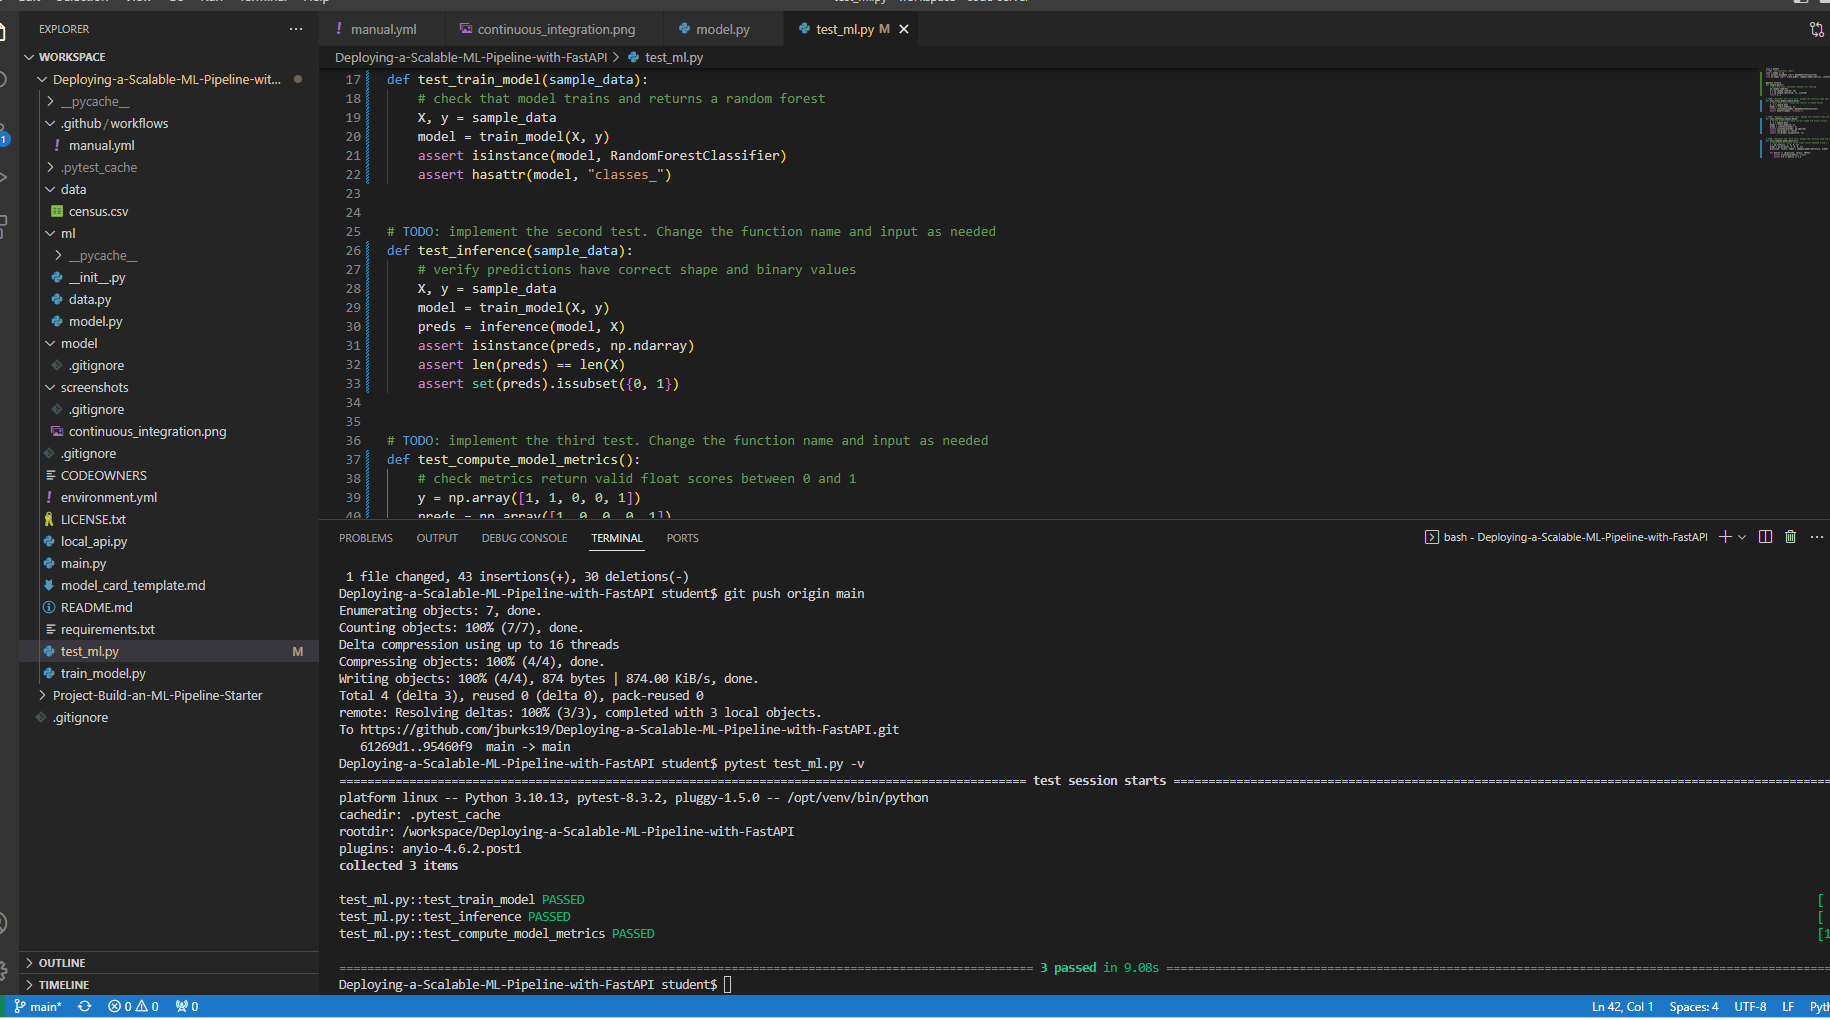
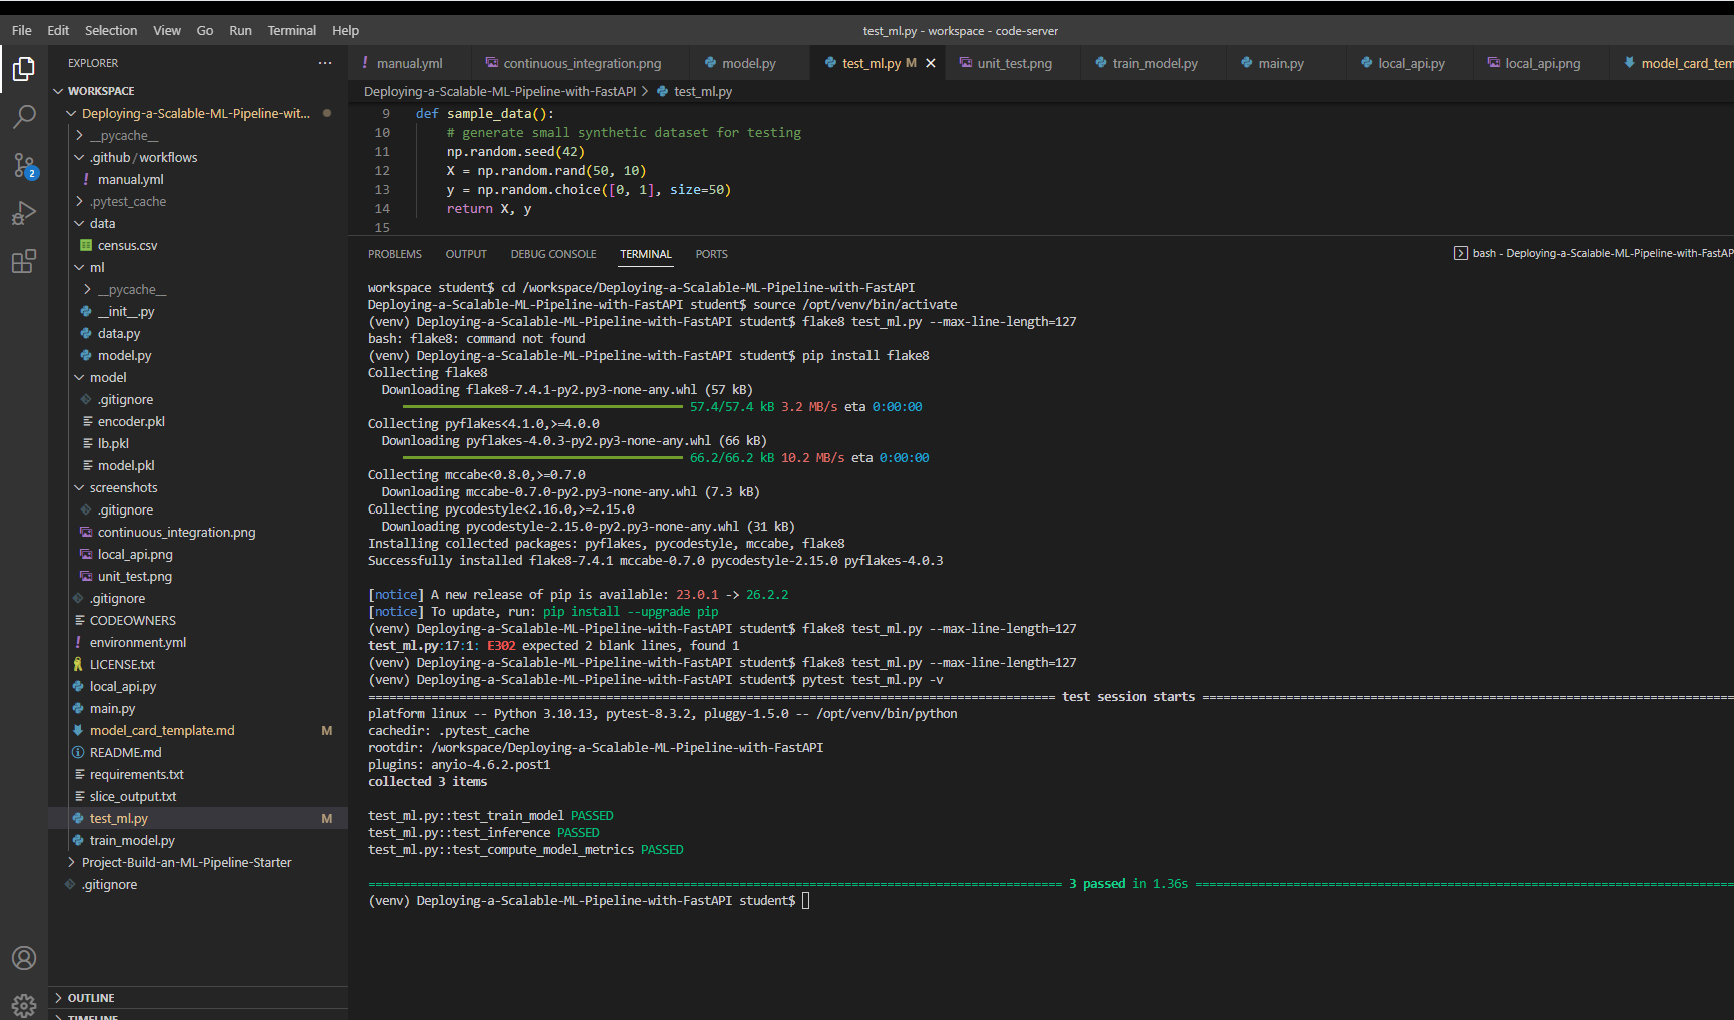
Fix flake8 spacing, verify exact metrics with pytest.approx, and update unit_test.png

diff --git a/test_ml.py b/test_ml.py
@@ -13,6 +13,7 @@ def sample_data():
     y = np.random.choice([0, 1], size=50)
     return X, y
 
+
 # TODO: implement the first test. Change the function name and input as needed
 def test_train_model(sample_data):
     # check that model trains and returns a random forest
@@ -40,6 +41,7 @@ def test_compute_model_metrics():
     preds = np.array([1, 0, 0, 0, 1])
     precision, recall, fbeta = compute_model_metrics(y, preds)
 
-    for metric in [precision, recall, fbeta]:
-        assert isinstance(metric, float)
-        assert 0.0 <= metric <= 1.0
+# TP = 2, FP = 0, FN = 1 -> Precision = 1.0, Recall = 2/3, F1 = 0.8
+    assert precision == pytest.approx(1.0)
+    assert recall == pytest.approx(2 / 3)
+    assert fbeta == pytest.approx(0.8)

diff --git a/model_card.md b/model_card.md
@@ -1,0 +1,29 @@
+# Model Card
+
+For additional information see the Model Card paper: https://arxiv.org/pdf/1810.03993.pdf
+
+## Model Details
+This machine learning model is a Random Forest Classifier trained to predict whether an individual's annual income exceeds $50,000 based on demographic and employment attributes. The model was trained using scikit-learn version 1.5.1 with 100 decision trees (`n_estimators=100`) and a fixed random seed of 42. Categorical features are preprocessed using a fitted OneHotEncoder, and continuous numerical features are passed directly without scaling.
+
+## Intended Use
+The primary intended use of this model is educational and research purposes to demonstrate end-to-end machine learning pipelines and API deployment using FastAPI. It is intended to classify individuals into binary income brackets (`<=50K` or `>50K`). It is not intended for high-stakes decision-making such as credit scoring, loan approvals, hiring screening, or insurance underwriting.
+
+## Training Data
+The model was trained on an 80% split of the publicly available Census Bureau Income dataset (`census.csv`), consisting of 26,048 records. Features include demographic and socioeconomic indicators such as age, workclass, education, marital status, occupation, relationship, race, sex, capital gain, capital loss, hours worked per week, and country of origin. Target labels were binarized into 0 (`<=50K`) and 1 (`>50K`).
+
+## Evaluation Data
+Model evaluation was performed on a held-out test split comprising the remaining 20% of the dataset (6,513 records), created using a random 80-20 train-test split (`test_size=0.20`, `random_state=42`). The test split was held separate throughout feature encoding and model training to evaluate performance on unseen data.
+
+## Metrics
+The model was evaluated using binary classification metrics focused on positive income prediction (`>50K`):
+- **Precision**: 0.7419 — Of all individuals predicted to earn more than $50,000, approximately 74.2% actually do.
+- **Recall**: 0.6384 — The model identifies approximately 63.8% of all true high-earning individuals in the evaluation dataset.
+- **F1 Score**: 0.6863 — The harmonic mean balancing precision and recall.
+
+Slicing evaluations were generated across distinct categorical groups (recorded in `slice_output.txt`). The evaluation showed consistent predictions across common occupational and educational segments, while displaying variance in recall on sparsely represented demographic slices.
+
+## Ethical Considerations
+The dataset originates from historical U.S. Census survey data and reflects socioeconomic patterns and disparities present at the time of collection. Attributes such as `race`, `sex`, and `native-country` are utilized by the model, which introduces the risk of perpetuating historical wage gaps or demographic biases if applied in unmonitored settings. Performance slicing was conducted to monitor potential disparities across protected categories.
+
+## Caveats and Recommendations
+Because the source dataset was collected in 1994, the nominal $50,000 income threshold does not account for modern economic inflation, shifts in currency purchasing power, or changes in employment demographics. Future iterations should incorporate inflation adjustments, calibrate probability thresholds for higher recall, and explore fairness-constrained algorithms to mitigate demographic bias.

diff --git a/model_card_template.md b/model_card_template.md
@@ -12,7 +12,7 @@ The primary intended use of this model is educational and research purposes to d
 The model was trained on an 80% split of the publicly available Census Bureau Income dataset (`census.csv`), consisting of 26,048 records. Features include demographic and socioeconomic indicators such as age, workclass, education, marital status, occupation, relationship, race, sex, capital gain, capital loss, hours worked per week, and country of origin. Target labels were binarized into 0 (`<=50K`) and 1 (`>50K`).
 
 ## Evaluation Data
-Model evaluation was performed on a held-out test split comprising the remaining 20% of the dataset (6,513 records). The test split was stratified and held separate throughout feature encoding and model training to evaluate performance on unseen data.
+Model evaluation was performed on a held-out test split comprising the remaining 20% of the dataset (6,513 records), created using a random 80-20 train-test split (`test_size=0.20`, `random_state=42`). The test split was held separate throughout feature encoding and model training to evaluate performance on unseen data.
 
 ## Metrics
 The model was evaluated using binary classification metrics focused on positive income prediction (`>50K`):
